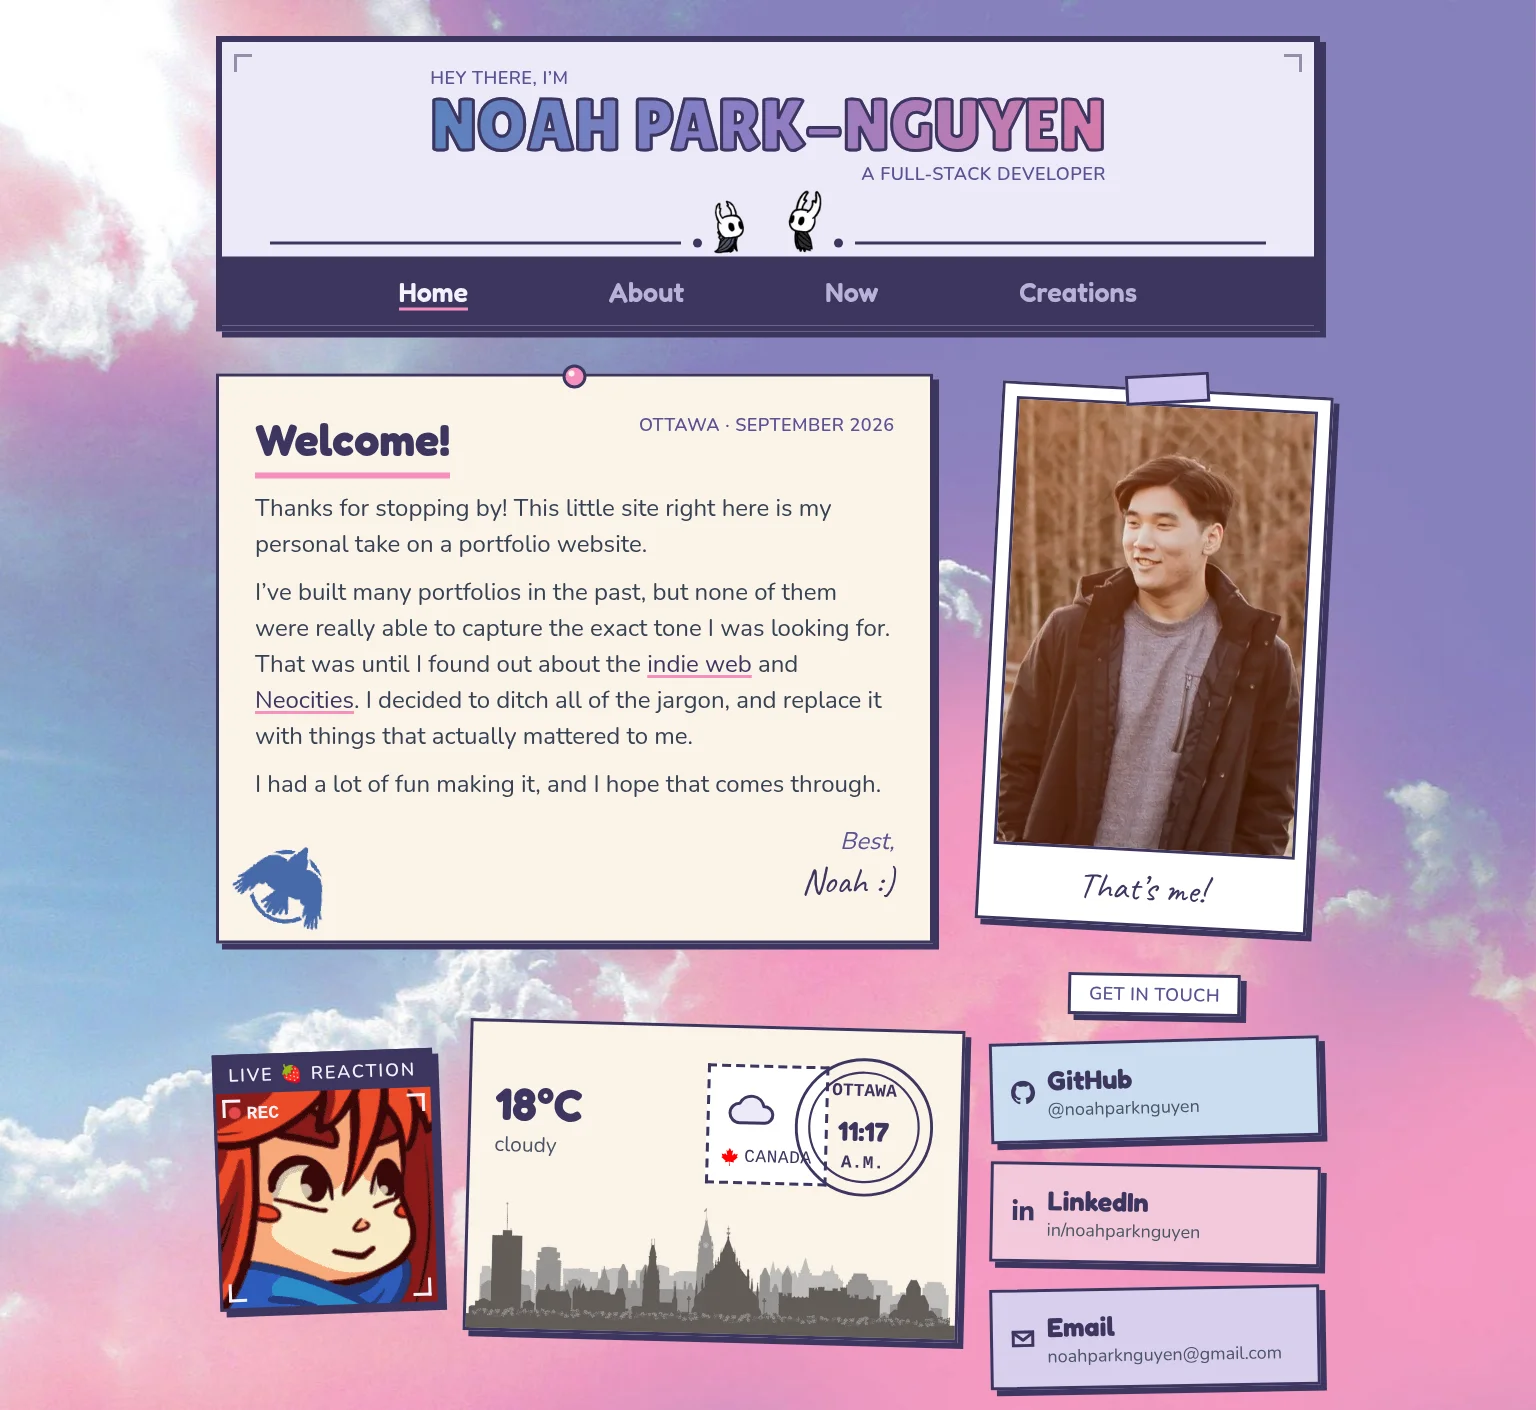
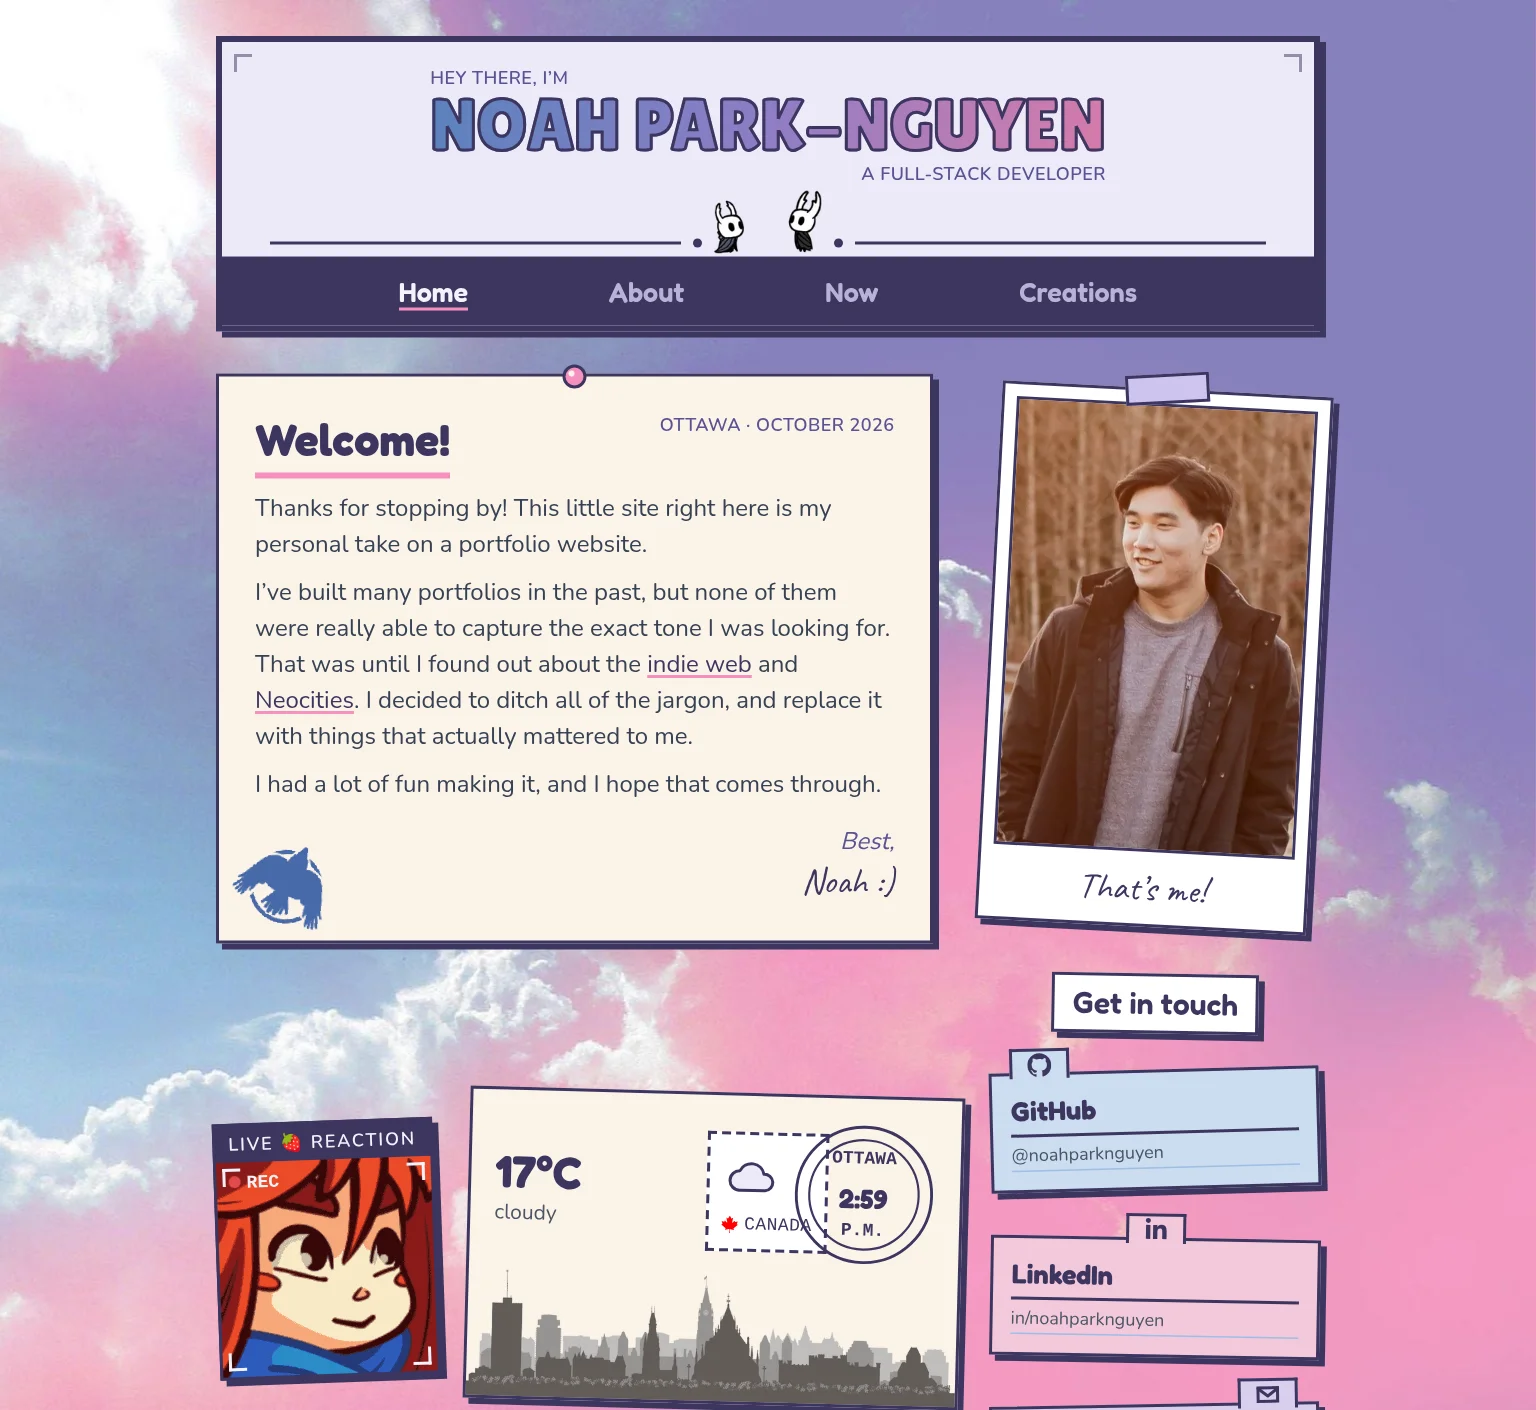
Updated Statmon's test count to 501, and the README screenshot to the current home page

Changed region(s): [[0.125, 0.6865, 0.875, 1.0], [0.4062, 0.2809, 0.5312, 0.3121]]

diff --git a/src/lib/projects.js b/src/lib/projects.js
@@ -241,7 +241,7 @@ const statmon = {
             stamp: "API calls",
           },
           {
-            value: "497",
+            value: "501",
             label: "tests ensuring consistent behaviour",
             stamp: "tests",
           },
